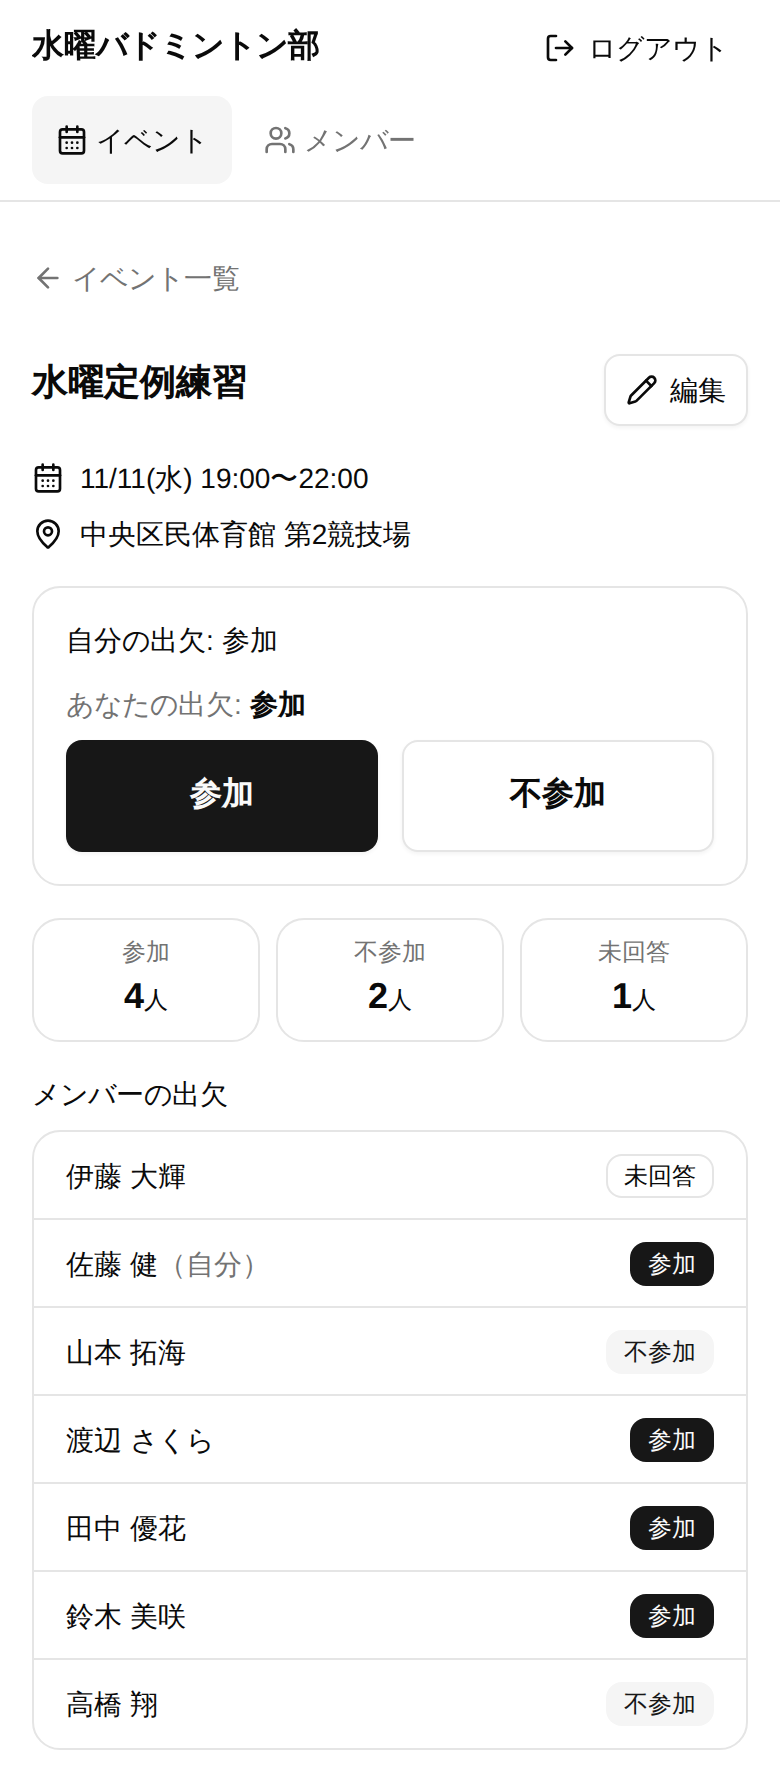
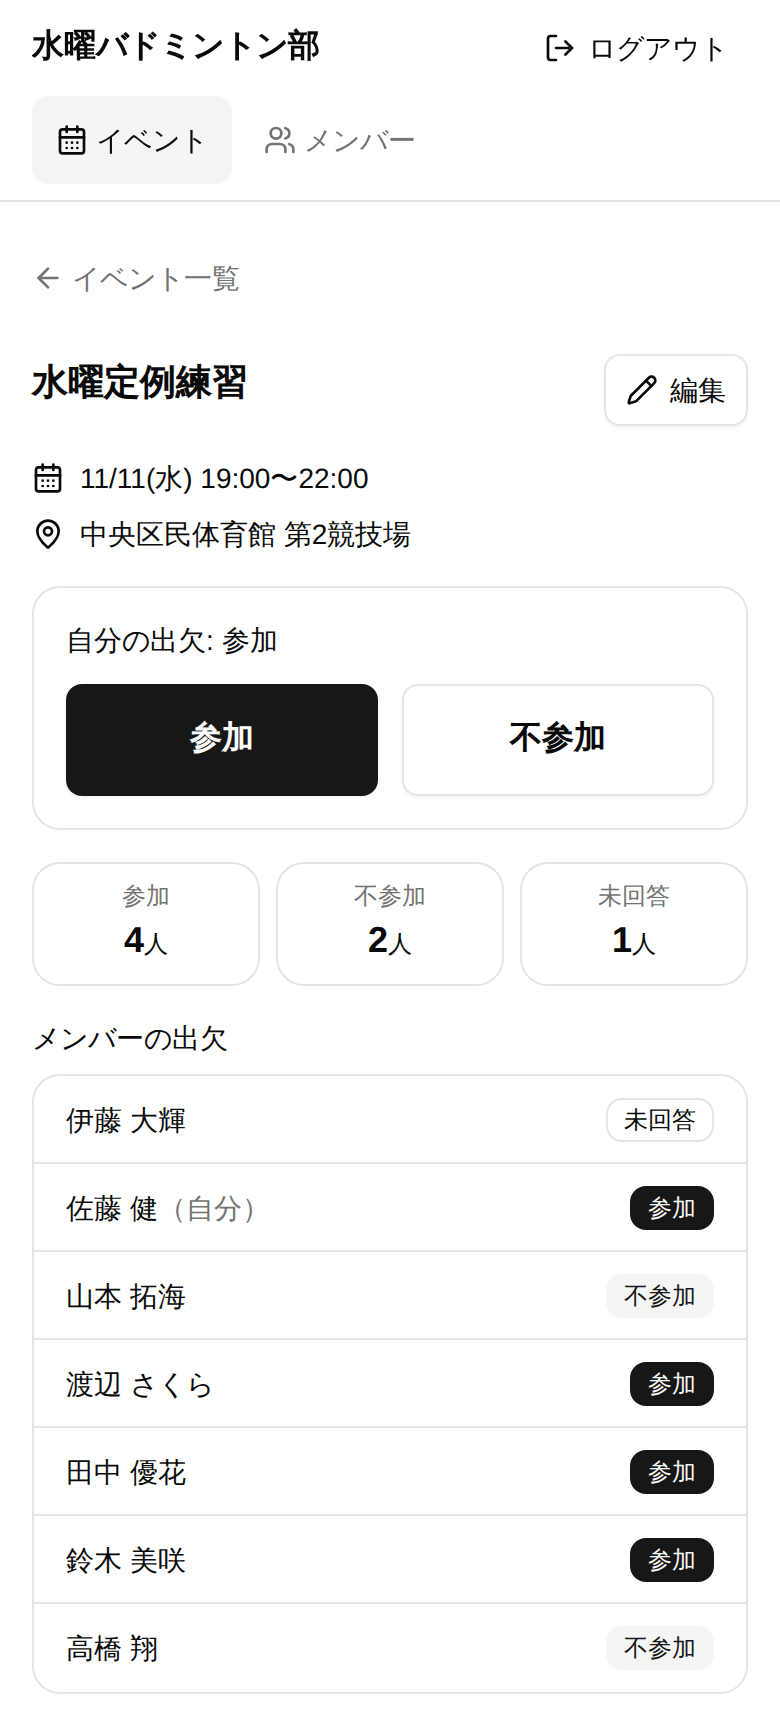
fix(web): イベント詳細で自分の出欠が 2 行表示される重複をなくす
AttendanceButtons の「あなたの出欠」の行を削除し、EventDetailPage の見出し「自分の出欠」に一本化する。
テストはボタンの押下状態で確認する形に変更。README のスクリーンショットも撮り直し。

diff --git a/apps/web/src/features/attendance/AttendanceButtons.test.tsx b/apps/web/src/features/attendance/AttendanceButtons.test.tsx
@@ -41,7 +41,9 @@ describe('AttendanceButtons', () => {
     vi.stubGlobal('fetch', fetchMock);
     setup();
 
-    expect(screen.getByText('未回答')).toBeInTheDocument();
+    // 未回答: どちらのボタンも押されていない
+    expect(button('参加')).toHaveAttribute('aria-pressed', 'false');
+    expect(button('不参加')).toHaveAttribute('aria-pressed', 'false');
     fireEvent.click(button('参加'));
 
     // 確認ダイアログを挟まない
@@ -77,7 +79,7 @@ describe('AttendanceButtons', () => {
 
     fireEvent.click(button('参加'));
     await waitFor(() => expect(button('参加')).toHaveAttribute('aria-pressed', 'true'));
-    expect(screen.getByText('参加', { selector: 'span' })).toBeInTheDocument();
+    expect(button('不参加')).toHaveAttribute('aria-pressed', 'false');
 
     d.resolve(okResponse('attending'));
     await waitFor(() => expect(button('参加')).not.toBeDisabled());

diff --git a/apps/web/src/features/attendance/AttendanceButtons.tsx b/apps/web/src/features/attendance/AttendanceButtons.tsx
@@ -35,9 +35,6 @@ export function AttendanceButtons({ eventId, memberId, currentStatus }: Attendan
 
   return (
     <section aria-label="自分の出欠" className="space-y-2">
-      <p className="text-sm text-muted-foreground">
-        あなたの出欠: <span className="font-semibold text-foreground">{shownStatus ? LABELS[shownStatus] : '未回答'}</span>
-      </p>
       <div className="grid grid-cols-2 gap-3">
         {(['attending', 'absent'] as const).map((status) => {
           const selected = shownStatus === status;
